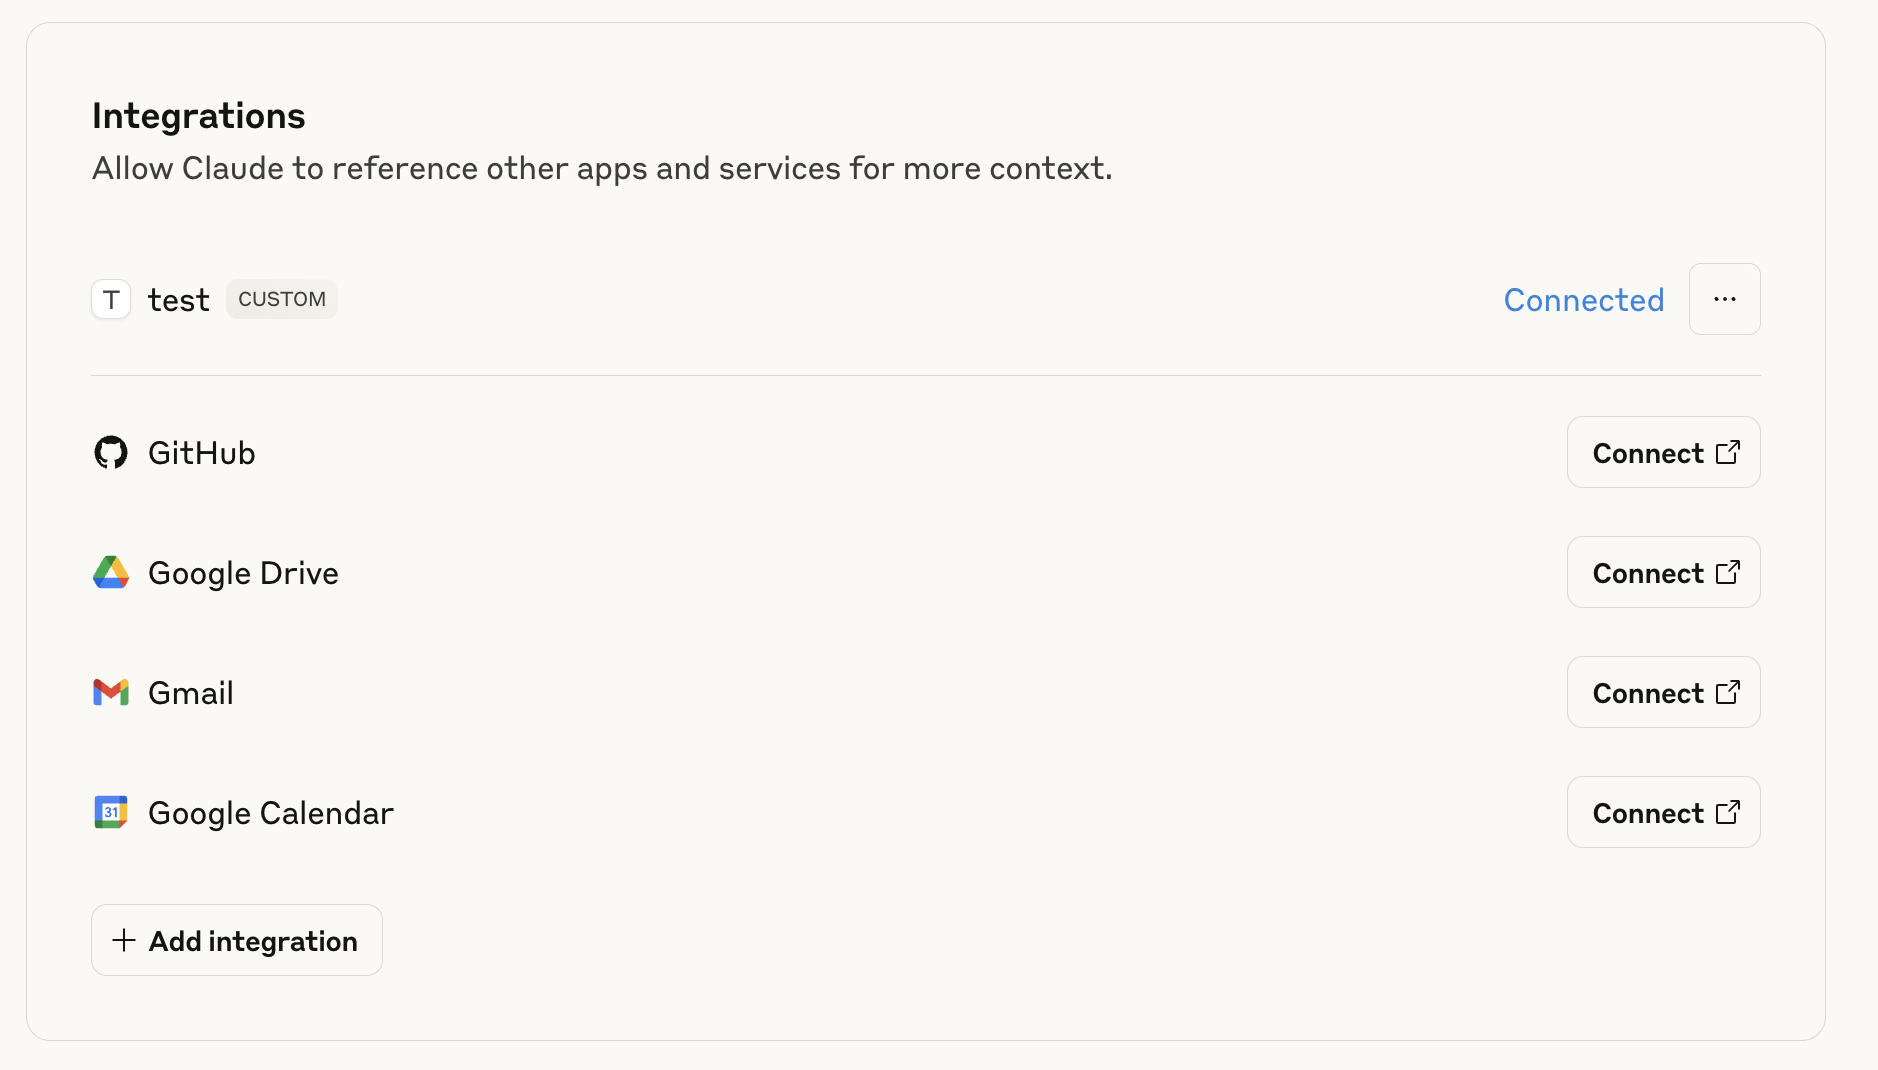
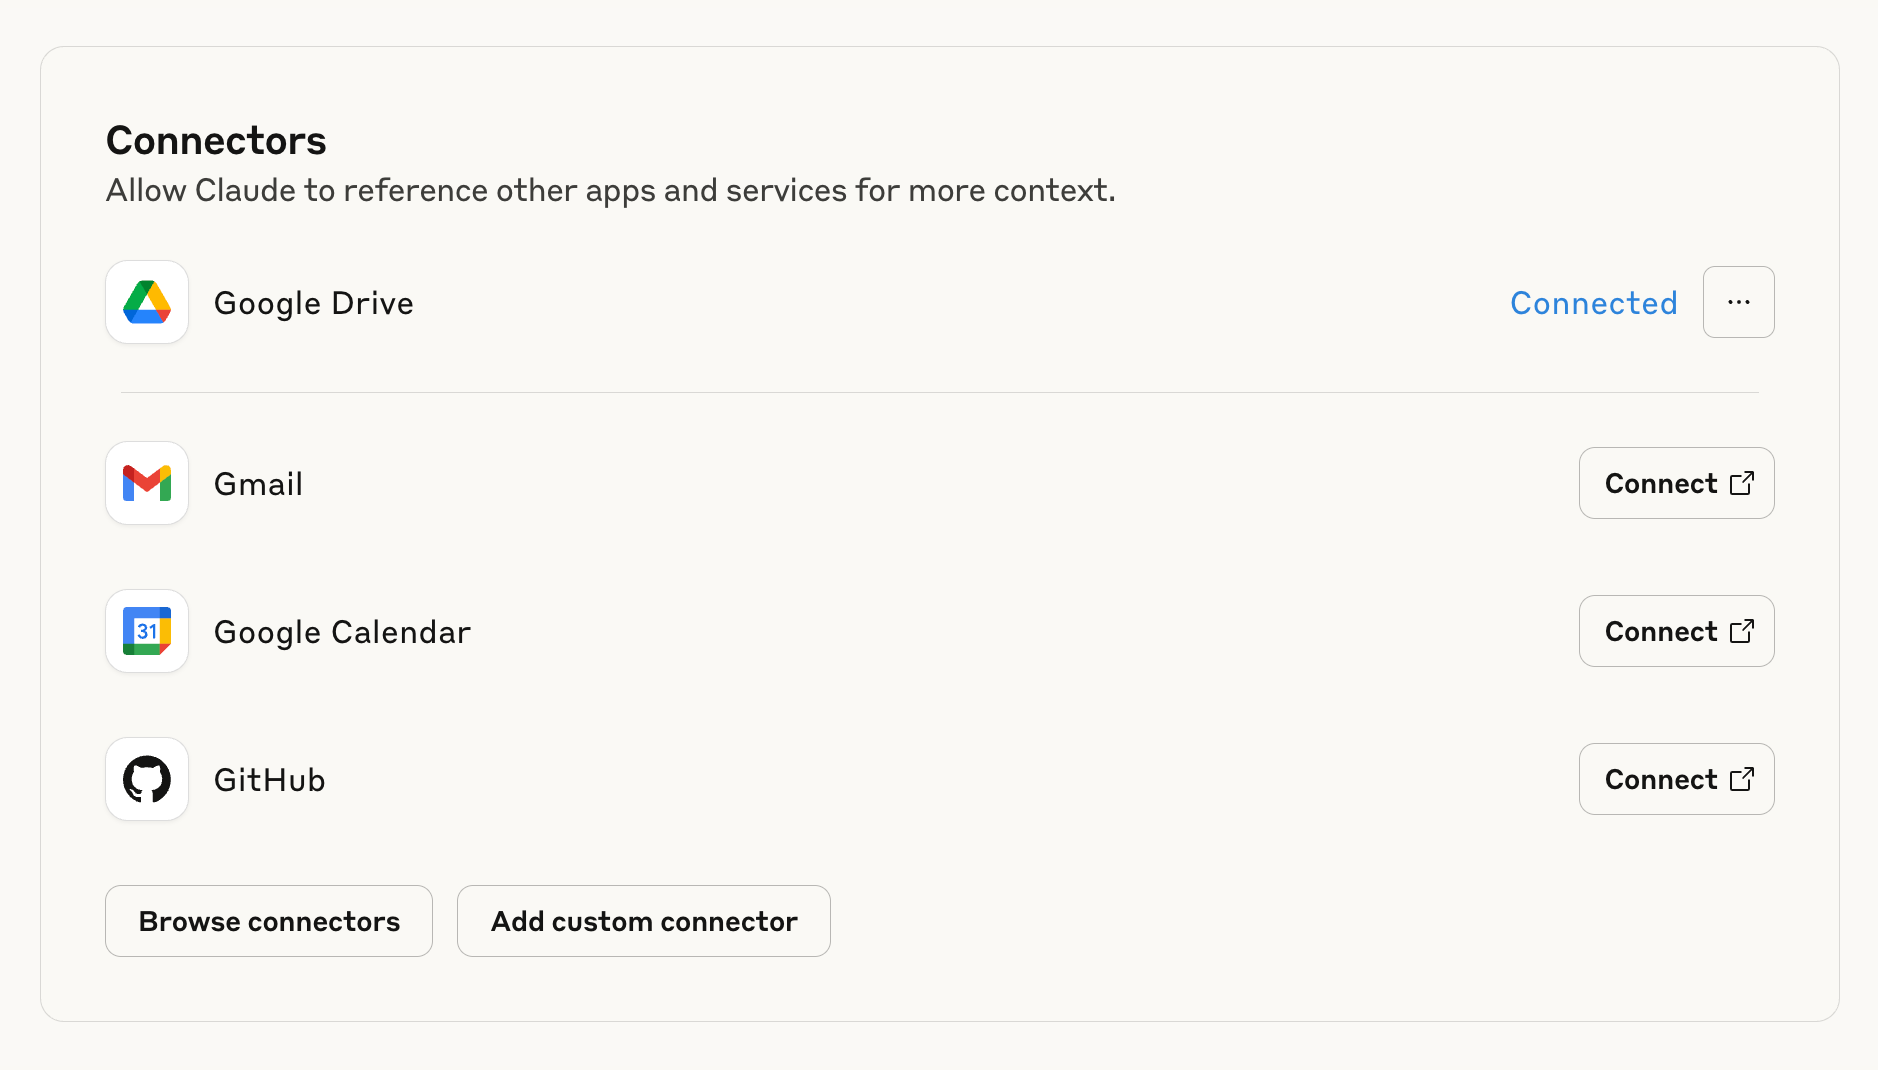
Update Claude integration docs to use "connectors" terminology
- Replace "integrations" with "connectors" throughout the page
- Update page title and headings to reflect new Claude UI terminology
- Refresh screenshots to match current Claude interface
- Maintain consistency with Claude's updated naming conventions

diff --git a/src/app/app/claude/page.tsx b/src/app/app/claude/page.tsx
@@ -4,7 +4,7 @@ import { ExternalLink } from 'lucide-react';
 import Image from 'next/image';
 
 export const metadata: Metadata = {
-  title: 'Connect to Claude - WayStation',
+  title: 'Connect Claude',
 };
 
 export default function ClaudePage() {
@@ -13,10 +13,10 @@ export default function ClaudePage() {
       {/* Header */}
       <div className="mb-8">
         <h1 className="text-3xl lg:text-4xl text-gray-900 font-bold mb-4">
-          Connect WayStation to Claude
+          Connect Claude to your apps via WayStation
         </h1>
         <p className="text-lg text-gray-600">
-          Access your WayStation tools directly within Claude Pro using Custom Integrations
+          Access your WayStation tools directly within Claude Pro using custom Connectors
         </p>
       </div>
 
@@ -24,7 +24,7 @@ export default function ClaudePage() {
       <div className="bg-blue-50 border border-blue-200 rounded-lg p-4 sm:p-6 mb-8">
         <h2 className="text-lg font-semibold text-blue-900 mb-2">Requirements</h2>
         <ul className="space-y-1 text-blue-800">
-          <li>Claude Pro subscription required</li>
+          <li>Claude Pro, Max, Team, or Enterprise subscription required</li>
         </ul>
       </div>
 
@@ -42,17 +42,17 @@ export default function ClaudePage() {
               <div className="sm:ml-4">
                 <h3 className="text-lg font-medium text-gray-900 mb-2">Access Claude Menu</h3>
                 <p className="text-gray-600 mb-3">
-                  In Claude, look for the menu on the left side of your chat interface. Click on &quot;Connect apps&quot; or scroll down to find &quot;Add integrations&quot; at the bottom of the menu.
+                  In Claude, look for the menu on the left side of your chat interface. Click on &quot;Connect apps&quot; or scroll down to find &quot;Add connectors&quot; at the bottom of the menu.
                 </p>
                 <div className="mt-4">
                   <Image 
                     src="/images/apps/claude-integration-settings.png"
-                    alt="Claude menu showing Connect apps and Add integrations options"
+                    alt="Claude menu showing Connect apps and Add Connectors options"
                     width={800}
                     height={600}
                     className="w-full max-w-full sm:max-w-2xl rounded-lg border shadow-sm"
                   />
-                  <p className="text-sm text-gray-500 mt-2 italic">Claude menu with integration options visible</p>
+                  <p className="text-sm text-gray-500 mt-2 italic">Claude menu with connectors options visible</p>
                 </div>
               </div>
             </div>
@@ -63,19 +63,19 @@ export default function ClaudePage() {
                 2
               </div>
               <div className="sm:ml-4">
-                <h3 className="text-lg font-medium text-gray-900 mb-2">Open Integrations Page</h3>
+                <h3 className="text-lg font-medium text-gray-900 mb-2">Open Connectors Page</h3>
                 <p className="text-gray-600 mb-3">
-                  Click on &quot;Add integrations&quot; from the menu. This will open the Integrations page where you can see existing connected services and add new ones.
+                  Click on &quot;Add connectors&quot; from the menu. This will open the Connectors page where you can see existing connected services and add new ones.
                 </p>
                 <div className="mt-4">
                   <Image 
                     src="/images/apps/claude-add-integration.png"
-                    alt="Claude Integrations page showing connected services and Add integration button"
+                    alt="Claude Connectors page showing connected services and Add integration button"
                     width={800}
                     height={600}
                     className="w-full max-w-full sm:max-w-2xl rounded-lg border shadow-sm"
                   />
-                  <p className="text-sm text-gray-500 mt-2 italic">Integrations page with existing connections and &quot;Add integration&quot; button</p>
+                  <p className="text-sm text-gray-500 mt-2 italic">Connectors page with existing connections and &quot;Add custom connector&quot; button</p>
                 </div>
               </div>
             </div>
@@ -86,9 +86,9 @@ export default function ClaudePage() {
                 3
               </div>
               <div className="sm:ml-4">
-                <h3 className="text-lg font-medium text-gray-900 mb-2">Add New Integration</h3>
+                <h3 className="text-lg font-medium text-gray-900 mb-2">Add New Connector</h3>
                 <p className="text-gray-600 mb-3">
-                  Click the &quot;Add integration&quot; button at the bottom of the integrations list. This will open a form where you can configure a custom integration.
+                  Click the &quot;Add custom connector&quot; button at the bottom of the Connectors list. This will open a form where you can configure a custom integration.
                 </p>
                 <div className="mt-4">
                   <Image 
@@ -98,7 +98,7 @@ export default function ClaudePage() {
                     height={600}
                     className="w-full max-w-full sm:max-w-2xl rounded-lg border shadow-sm"
                   />
-                  <p className="text-sm text-gray-500 mt-2 italic">Add integration form with name and URL fields</p>
+                  <p className="text-sm text-gray-500 mt-2 italic">Add custom conenctor form with name and URL fields</p>
                 </div>
               </div>
             </div>
@@ -125,7 +125,7 @@ export default function ClaudePage() {
                   </div>
                 </div>
                 <p className="text-sm text-gray-600">
-                  After filling in the fields, click the &quot;Add&quot; button to create the integration.
+                  After filling in the fields, click the &quot;Add&quot; button to create the connector.
                 </p>
               </div>
             </div>
@@ -138,7 +138,7 @@ export default function ClaudePage() {
               <div className="sm:ml-4">
                 <h3 className="text-lg font-medium text-gray-900 mb-2">Connect and Authenticate</h3>
                 <p className="text-gray-600 mb-3">
-                  After adding the integration, you&apos;ll see &quot;WayStation&quot; appear in your integrations list with a &quot;Connect&quot; button next to it. 
+                  After adding the integration, you&apos;ll see &quot;WayStation&quot; appear in your Connectors list with a &quot;Connect&quot; button next to it. 
                   Click the &quot;Connect&quot; button to authenticate your WayStation account and activate the integration.
                 </p>
                 <div className="bg-amber-50 border border-amber-200 rounded-lg p-3">
@@ -157,8 +157,8 @@ export default function ClaudePage() {
               <div className="sm:ml-4">
                 <h3 className="text-lg font-medium text-gray-900 mb-2">Start Using Your Tools</h3>
                 <p className="text-gray-600">
-                  Once authenticated, WayStation will show a &quot;Connected&quot; status in your integrations list. 
-                  You can now access all your WayStation integrations directly within Claude conversations!
+                  Once authenticated, WayStation will show a &quot;Connected&quot; status in your Connectors list. 
+                  You can now access all your WayStation Connectors directly within Claude conversations!
                 </p>
               </div>
             </div>
@@ -190,11 +190,11 @@ export default function ClaudePage() {
           </p>
           <div className="space-y-2">
             <Link 
-              href="/app/integrations"
+              href="/app/Connectors"
               className="inline-flex items-center text-blue-600 hover:text-blue-700"
             >
               <ExternalLink className="h-4 w-4 mr-2" />
-              Manage your integrations
+              Manage your Connectors
             </Link>
           </div>
         </div>
